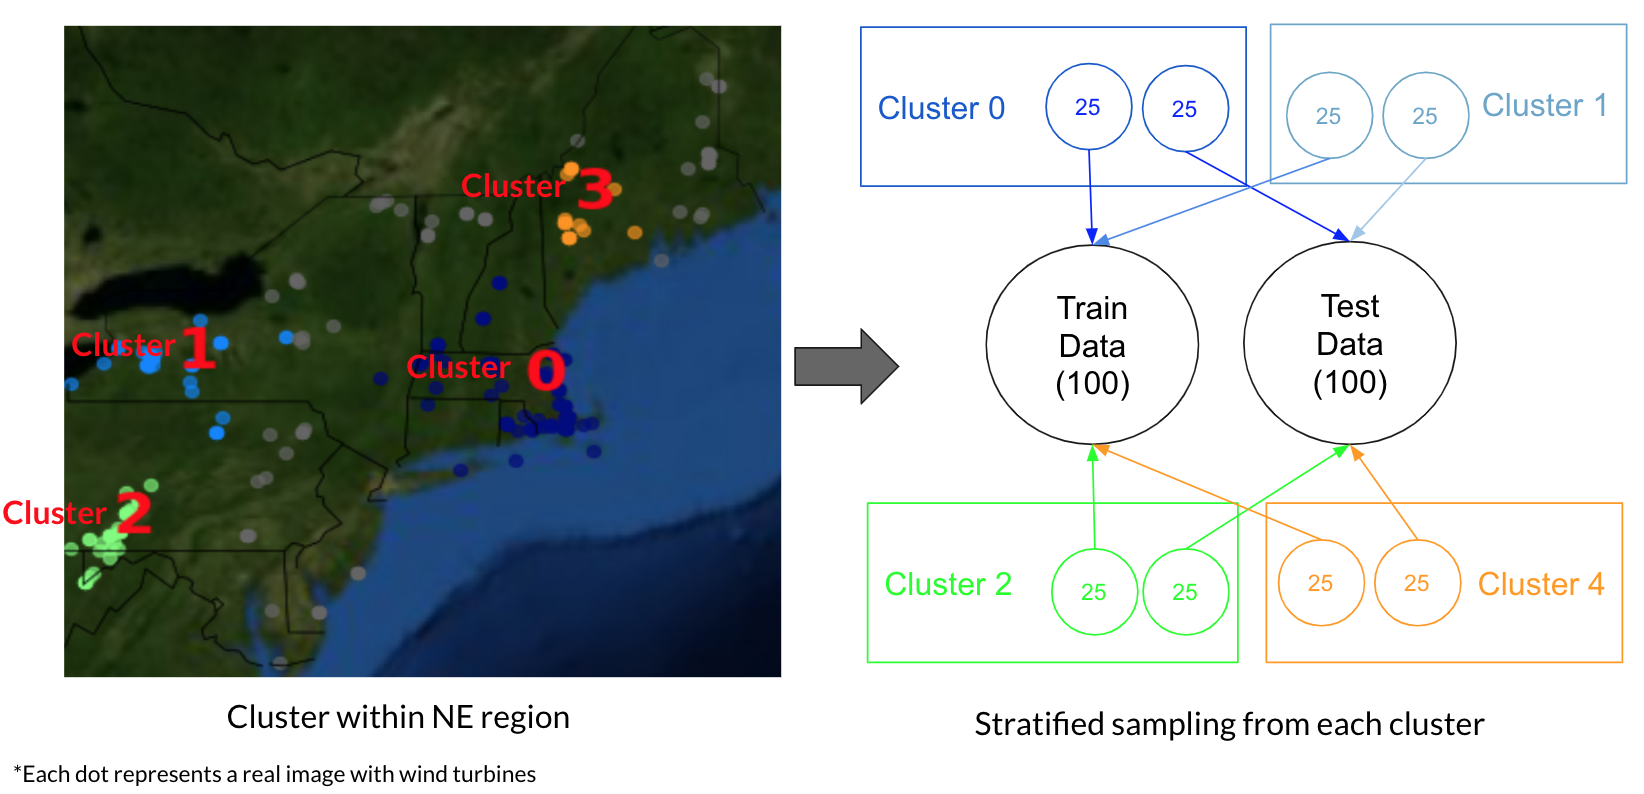
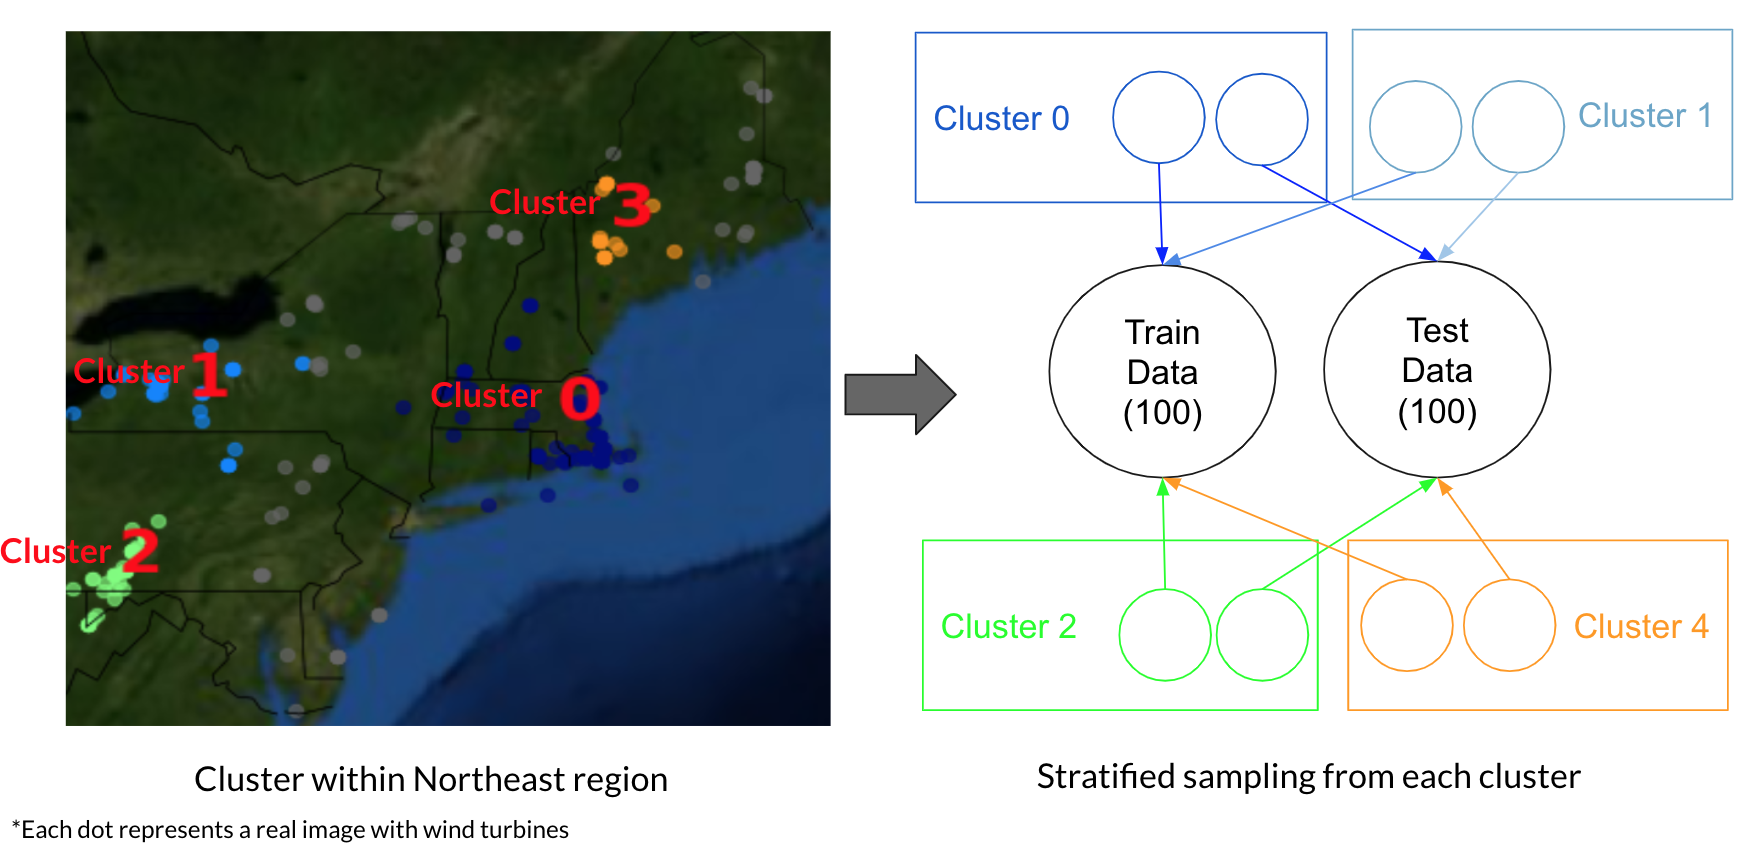
fix cluster + sampling image + description

diff --git a/index.html b/index.html
@@ -472,7 +472,7 @@
               <p class="text-muted" style="text-align: justify;">
                 Because our self-defined geographic regions are wide and diverse, it's important for our training and testing datasets
                 to be representative of a given geographic region. To increase homogeneity within a region (we define a region as a "domain"), we clustered
-                within each region and then performed stratified sampling from each cluster to construct our 1:1 train:validation ratio (1 training image for each validation image) constrained
+                within each region and then performed stratified sampling from each cluster with proportional allocation to construct our 1:1 train:validation ratio (1 training image for each validation image) constrained
                 baseline datasets, including 100 images total across the clusters within each domain. Each point represents an image, and each color represents a cluster. Points that are in the same cluster are more similar to each other than points that are in different clusters. </p>
           </div>
           <div class="col-md-12 my-auto">
@@ -480,7 +480,7 @@
             <img src="img/methodology/Clustering and Stratified Sampling.png" class="img-responsive" alt="" class="center" style="width:80%; height:70%">
             </p>
             <br>
-            <caption class="text-muted"><i>Figure: DBSCAN clustering within each geographic region and then stratified random sampling from each cluster to construct our training and testing datasets. Each dot represents a real imge, and each color represents a different strata or cluster. Because our training and testing datasets contain 100 images each, and there are 4 clusters within the Northeast region shown here, we randomly sample 25 images from each cluster for our train data, and a different set of 25 images from each cluster for our test data. </i></caption>
+            <caption class="text-muted"><i>Figure: DBSCAN clustering within each geographic region and then stratified random sampling from each cluster to construct our training and testing datasets. Each dot represents a real imge, and each color represents a different cluster. For each cluster, the sample size is proportional to the cluster size, so larger clusters will have more images in both training and testing data. </i></caption>
           </div>
         </div>
 
